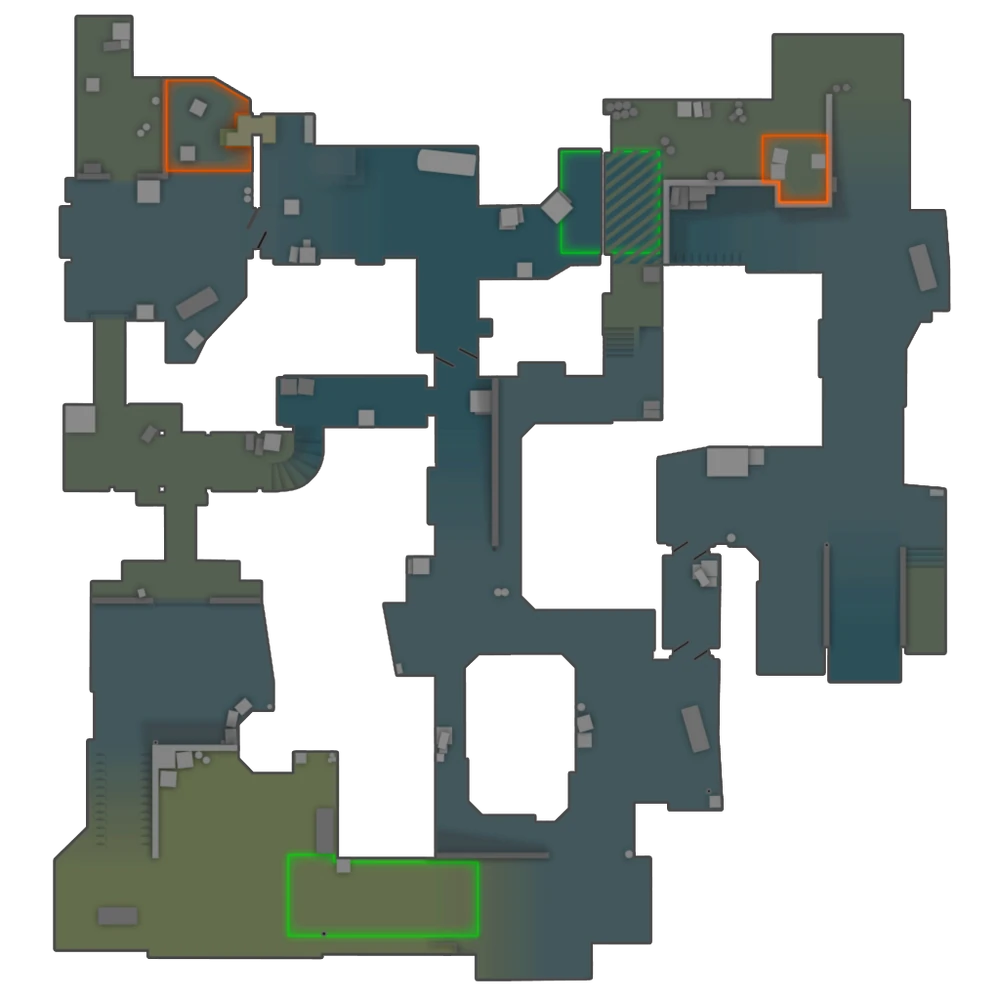
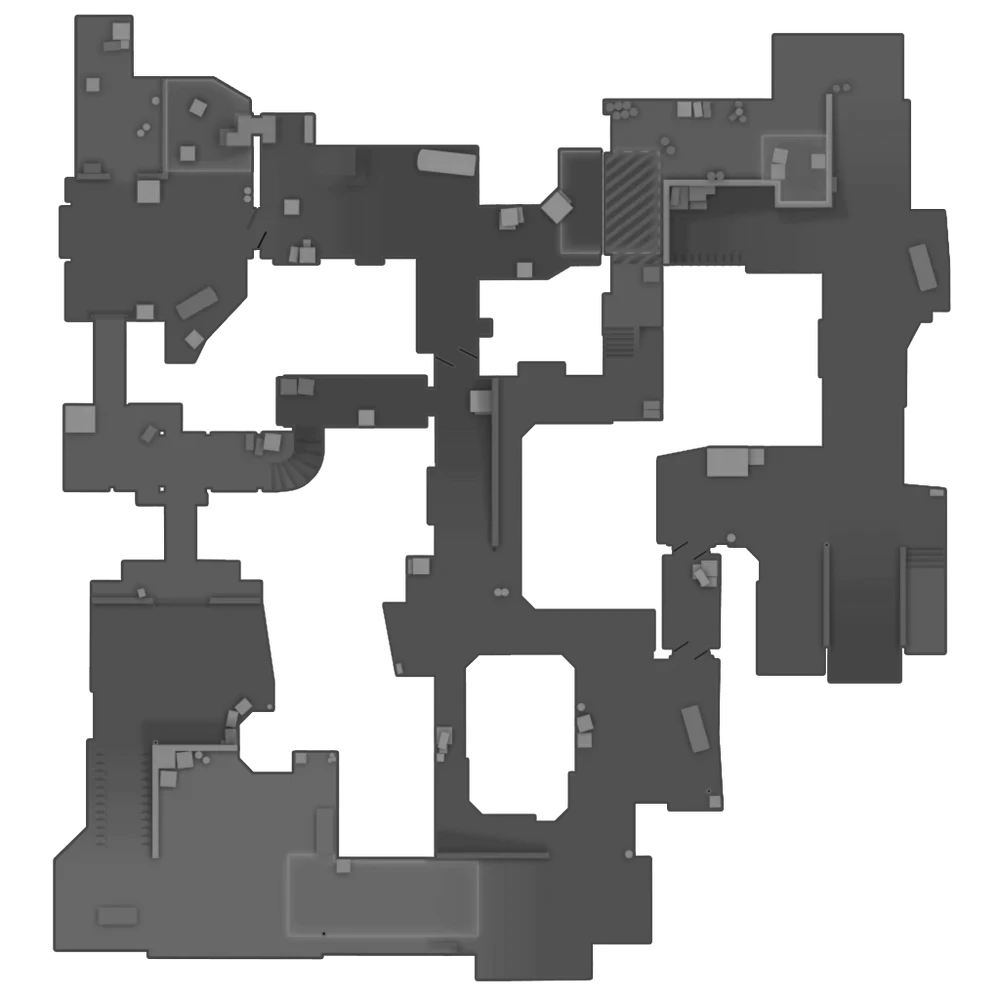
Carte : noms de zones retirés, carte en gris, cônes de vision, tracés courbes
Inspiration cs2.cam et stratbook.pro. Chaque joueur a un point regardé par
étape (bloc look) ; pastille orientée et cône dégradé à sa couleur.

Claude-Session: https://claude.ai/code/session_01MZjqa4ed32BAXY4Y2ZXGkq

diff --git a/src/map/render.js b/src/map/render.js
@@ -1,5 +1,7 @@
 // Rendu SVG d'une étape. Fonction pure (renvoie une chaîne), utilisable
 // dans le navigateur comme dans les tests et l'aperçu Node.
+// Inspiration visuelle : cs2.cam (carte en gris, seuls les joueurs en couleur, pastille
+// orientée) et stratbook.pro (tracés courbes, utilitaires discrets).
 import { BACKGROUND, VIEWBOX, ZONES } from './dust2.js';
 
 export const PLAYER_COLORS = {
@@ -24,43 +26,57 @@ const UTILITY_NAME = { smoke: 'Smoke', flash: 'Flash', molotov: 'Molotov', bomb:
 
 const C = {
   bg: '#0F1720',
-  chip: 'rgba(15,23,32,0.82)',
-  label: '#E8EEF4',
   onColor: '#0B1118',
   surface: '#17212B',
+  text: '#E8EEF4',
 };
 
 // Tailles en pixels de l'image (cadrage 600 de large, affiché ~360 px sur téléphone).
-const R_PLAYER = 21;
-const R_UTIL = 18;
-const STROKE = 6;
-const LABEL_SIZE = 19;
+const R_PLAYER = 19;
+const R_UTIL = 17;
+const STROKE = 5;
+const CONE_RADIUS = 150;
+const CONE_HALF_ANGLE = 32; // degrés, cône de 64°
 
 const esc = (s) =>
   String(s).replace(/[&<>"]/g, (c) => ({ '&': '&amp;', '<': '&lt;', '>': '&gt;', '"': '&quot;' })[c]);
 
 const zoneById = Object.fromEntries(ZONES.map((z) => [z.id, z]));
-const pts = (path) => path.map(([x, y]) => `${x},${y}`).join(' ');
+const r1 = (n) => Math.round(n * 10) / 10;
 
-function background(href) {
-  const { width, height } = BACKGROUND;
-  // Voile sombre léger pour faire ressortir tracés et étiquettes.
-  return `<rect x="0" y="0" width="${width}" height="${height}" fill="${C.bg}"/><image href="${esc(href)}" x="0" y="0" width="${width}" height="${height}" preserveAspectRatio="none"/><rect x="0" y="0" width="${width}" height="${height}" fill="${C.bg}" opacity="0.28"/>`;
+// Courbe lisse passant par tous les points (Catmull-Rom convertie en Bézier).
+export function smoothPath(points) {
+  if (points.length < 3) return `M${points.map(([x, y]) => `${x},${y}`).join(' L')}`;
+  let d = `M${points[0][0]},${points[0][1]}`;
+  for (let i = 0; i < points.length - 1; i++) {
+    const p0 = points[i - 1] ?? points[i];
+    const p1 = points[i];
+    const p2 = points[i + 1];
+    const p3 = points[i + 2] ?? p2;
+    const t = 0.18;
+    const c1 = [p1[0] + (p2[0] - p0[0]) * t, p1[1] + (p2[1] - p0[1]) * t];
+    const c2 = [p2[0] - (p3[0] - p1[0]) * t, p2[1] - (p3[1] - p1[1]) * t];
+    d += ` C${r1(c1[0])},${r1(c1[1])} ${r1(c2[0])},${r1(c2[1])} ${p2[0]},${p2[1]}`;
+  }
+  return d;
 }
 
-function labels() {
-  return ZONES.map(({ name, labelAt: [x, y] }) => {
-    const w = name.length * LABEL_SIZE * 0.56 + 14;
-    const h = LABEL_SIZE + 10;
-    return `<g><rect x="${x - w / 2}" y="${y - h / 2}" width="${w}" height="${h}" rx="${h / 2}" fill="${C.chip}"/><text x="${x}" y="${y}" text-anchor="middle" dominant-baseline="central" font-size="${LABEL_SIZE}" font-weight="600" fill="${C.label}">${esc(name)}</text></g>`;
-  }).join('');
+// Angle (radians) du joueur vers le point regardé.
+const angleTo = ([x, y], [tx, ty]) => Math.atan2(ty - y, tx - x);
+
+function cone(uid, role, [x, y], look) {
+  const a = angleTo([x, y], look);
+  const h = (CONE_HALF_ANGLE * Math.PI) / 180;
+  const p1 = [x + CONE_RADIUS * Math.cos(a - h), y + CONE_RADIUS * Math.sin(a - h)];
+  const p2 = [x + CONE_RADIUS * Math.cos(a + h), y + CONE_RADIUS * Math.sin(a + h)];
+  return `<path d="M${x},${y} L${r1(p1[0])},${r1(p1[1])} A${CONE_RADIUS},${CONE_RADIUS} 0 0 1 ${r1(p2[0])},${r1(p2[1])} Z" fill="url(#cone-${uid}-${role})"/>`;
 }
 
 function defs() {
   const markers = Object.entries(PLAYER_COLORS)
     .map(
       ([id, color]) =>
-        `<marker id="arrow-${id}" viewBox="0 0 10 10" refX="6" refY="5" markerWidth="3.2" markerHeight="3.2" orient="auto-start-reverse"><path d="M0,0 L10,5 L0,10 z" fill="${color}"/></marker>`,
+        `<marker id="arrow-${id}" viewBox="0 0 10 10" refX="6" refY="5" markerWidth="3.4" markerHeight="3.4" orient="auto-start-reverse"><path d="M0,0 L10,5 L0,10 z" fill="${color}"/></marker>`,
     )
     .join('');
   return `<defs>${markers}</defs>`;
@@ -79,13 +95,29 @@ export function renderStepSvg(strategy, stepN, opts = {}) {
   const step = strategy.steps.find((s) => s.n === stepN);
   if (!step) throw new Error(`Étape ${stepN} introuvable`);
   const m = step.map;
-  const dim = (role) => (focus && role !== focus ? ' opacity="0.3"' : '');
+  // Identifiant unique pour que plusieurs cartes puissent cohabiter dans une même page.
+  const uid = `s${stepN}-${focus ?? 'equipe'}`;
+  const dim = (role) => (focus && role !== focus ? ' opacity="0.28"' : '');
+  // Joueur sélectionné dessiné en dernier pour rester au-dessus.
+  const order = Object.keys(m.positions).sort((a, b) => (a === focus) - (b === focus));
+
+  // Les dégradés radiaux sont centrés sur chaque joueur : un dégradé par joueur et par étape.
+  const coneDefs = order
+    .map((role) => {
+      const [x, y] = m.positions[role];
+      return `<radialGradient id="cone-${uid}-${role}" gradientUnits="userSpaceOnUse" cx="${x}" cy="${y}" r="${CONE_RADIUS}"><stop offset="0" stop-color="${PLAYER_COLORS[role]}" stop-opacity="0.5"/><stop offset="1" stop-color="${PLAYER_COLORS[role]}" stop-opacity="0"/></radialGradient>`;
+    })
+    .join('');
+
+  const cones = order
+    .map((role) => `<g${dim(role)}>${cone(uid, role, m.positions[role], m.look[role])}</g>`)
+    .join('');
 
   const moves = m.moves
-    .map(
-      ({ role, path }) =>
-        `<g${dim(role)}><polyline points="${pts(path)}" fill="none" stroke="${C.bg}" stroke-width="${STROKE + 4}" stroke-linecap="round" stroke-linejoin="round" opacity="0.6"/><polyline points="${pts(path)}" fill="none" stroke="${PLAYER_COLORS[role]}" stroke-width="${STROKE}" stroke-linecap="round" stroke-linejoin="round" stroke-dasharray="${PLAYER_DASH[role]}" marker-end="url(#arrow-${role})"/></g>`,
-    )
+    .map(({ role, path }) => {
+      const d = smoothPath(path);
+      return `<g${dim(role)}><path d="${d}" fill="none" stroke="${C.bg}" stroke-width="${STROKE + 4}" stroke-linecap="round" opacity="0.7"/><path d="${d}" fill="none" stroke="${PLAYER_COLORS[role]}" stroke-width="${STROKE}" stroke-linecap="round" stroke-dasharray="${PLAYER_DASH[role]}" marker-end="url(#arrow-${role})"/></g>`;
+    })
     .join('');
 
   const utils = m.utilities
@@ -95,23 +127,26 @@ export function renderStepSvg(strategy, stepN, opts = {}) {
       const [x, y] = [z.anchor[0] + dx, z.anchor[1] + dy];
       const letter = UTILITY_LETTER[type];
       const r = letter.length > 1 ? R_UTIL + 3 : R_UTIL;
-      return `<g${dim(by)}><title>${esc(`${UTILITY_NAME[type]} (${by.toUpperCase()}) : ${z.name}`)}</title><circle cx="${x}" cy="${y}" r="${r}" fill="${C.surface}" stroke="${PLAYER_COLORS[by]}" stroke-width="5"/><text x="${x}" y="${y}" text-anchor="middle" dominant-baseline="central" font-size="${letter.length > 1 ? 15 : 19}" font-weight="800" fill="#E8EEF4">${letter}</text></g>`;
+      return `<g${dim(by)}><title>${esc(`${UTILITY_NAME[type]} (${by.toUpperCase()}) : ${z.name}`)}</title><circle cx="${x}" cy="${y}" r="${r}" fill="${C.surface}" stroke="${PLAYER_COLORS[by]}" stroke-width="4"/><text x="${x}" y="${y}" text-anchor="middle" dominant-baseline="central" font-size="${letter.length > 1 ? 14 : 18}" font-weight="800" fill="${C.text}">${letter}</text></g>`;
     })
     .join('');
 
-  // Joueur sélectionné dessiné en dernier pour rester au-dessus.
-  const order = Object.keys(m.positions).sort((a, b) => (a === focus) - (b === focus));
   const players = order
     .map((role) => {
       const [x, y] = m.positions[role];
+      const deg = (angleTo([x, y], m.look[role]) * 180) / Math.PI;
+      const color = PLAYER_COLORS[role];
+      // Pastille orientée : un petit bec du côté où le joueur regarde.
+      const beak = `<path d="M${x + R_PLAYER + 9},${y} L${x + R_PLAYER - 4},${y - 10} L${x + R_PLAYER - 4},${y + 10} Z" fill="${color}" stroke="${C.bg}" stroke-width="3" stroke-linejoin="round" transform="rotate(${r1(deg)} ${x} ${y})"/>`;
       const ring =
         role === focus
-          ? `<circle cx="${x}" cy="${y}" r="${R_PLAYER + 7}" fill="none" stroke="#E8EEF4" stroke-width="4"/>`
+          ? `<circle cx="${x}" cy="${y}" r="${R_PLAYER + 8}" fill="none" stroke="${C.text}" stroke-width="4"/>`
           : '';
-      return `<g class="player" data-role="${role}"${dim(role)}>${ring}<circle cx="${x}" cy="${y}" r="${R_PLAYER}" fill="${PLAYER_COLORS[role]}" stroke="${C.bg}" stroke-width="4"/><text x="${x}" y="${y}" text-anchor="middle" dominant-baseline="central" font-size="24" font-weight="800" fill="${C.onColor}">${role.slice(1)}</text></g>`;
+      return `<g class="player" data-role="${role}"${dim(role)}>${ring}${beak}<circle cx="${x}" cy="${y}" r="${R_PLAYER}" fill="${color}" stroke="${C.bg}" stroke-width="4"/><text x="${x}" y="${y}" text-anchor="middle" dominant-baseline="central" font-size="22" font-weight="800" fill="${C.onColor}">${role.slice(1)}</text></g>`;
     })
     .join('');
 
   const vb = `${VIEWBOX.x} ${VIEWBOX.y} ${VIEWBOX.width} ${VIEWBOX.height}`;
-  return `<svg xmlns="http://www.w3.org/2000/svg" xmlns:xlink="http://www.w3.org/1999/xlink" viewBox="${vb}" role="img" aria-label="Plan de Dust 2, étape ${stepN}" font-family="Inter, system-ui, sans-serif">${defs()}<g aria-hidden="true">${background(href)}${labels()}</g><g class="moves">${moves}</g><g class="utilities">${utils}</g><g class="players">${players}</g></svg>`;
+  const { width, height } = BACKGROUND;
+  return `<svg xmlns="http://www.w3.org/2000/svg" viewBox="${vb}" role="img" aria-label="Plan de Dust 2, étape ${stepN}" font-family="Inter, system-ui, sans-serif">${defs()}<defs>${coneDefs}</defs><g aria-hidden="true"><rect x="0" y="0" width="${width}" height="${height}" fill="${C.bg}"/><image href="${esc(href)}" x="0" y="0" width="${width}" height="${height}" preserveAspectRatio="none" opacity="0.75"/></g><g class="cones">${cones}</g><g class="moves">${moves}</g><g class="utilities">${utils}</g><g class="players">${players}</g></svg>`;
 }

diff --git a/src/map/dust2.js b/src/map/dust2.js
@@ -1,4 +1,5 @@
-// Plan de Dust 2 : image de vue d'ensemble fournie par Greg (public/maps/dust2.webp, 1000 x 1000).
+// Plan de Dust 2 : image de vue d'ensemble fournie par Greg, passée en niveaux de gris
+// (public/maps/dust2.webp, 1000 x 1000, original dans assets-src/).
 // Toutes les coordonnées sont en pixels de cette image.
 
 export const BACKGROUND = { href: 'maps/dust2.webp', width: 1000, height: 1000 };
@@ -8,20 +9,20 @@ export const BACKGROUND = { href: 'maps/dust2.webp', width: 1000, height: 1000 }
 export const VIEWBOX = { x: 360, y: 20, width: 600, height: 940 };
 
 // Zones nommées. anchor = point où poser un symbole d'utilitaire.
-// labelAt = position du nom, choisie pour ne pas être masquée par les joueurs.
+// Les noms ne sont pas affichés sur la carte (choix de Greg), ils servent aux données et aux tests.
 export const ZONES = [
-  { id: 'siteA', name: 'Site A', anchor: [790, 170], labelAt: [700, 70] },
-  { id: 'ct', name: 'CT', anchor: [640, 215], labelAt: [522, 238] },
-  { id: 'rampe', name: 'Rampe', anchor: [868, 228], labelAt: [845, 250] },
-  { id: 'car', name: 'Car', anchor: [920, 268], labelAt: [925, 225] },
-  { id: 'long', name: 'Long', anchor: [880, 400], labelAt: [930, 420] },
-  { id: 'pit', name: 'Pit', anchor: [868, 615], labelAt: [868, 640] },
-  { id: 'portesLong', name: 'Portes Long', anchor: [705, 650], labelAt: [770, 690] },
-  { id: 'short', name: 'Short', anchor: [632, 300], labelAt: [632, 430] },
-  { id: 'xbox', name: 'Xbox', anchor: [482, 400], labelAt: [455, 360] },
-  { id: 'mid', name: 'Mid', anchor: [462, 500], labelAt: [462, 520] },
-  { id: 'lower', name: 'Lower', anchor: [390, 400], labelAt: [395, 450] },
-  { id: 'topMid', name: 'Top Mid', anchor: [480, 610], labelAt: [560, 625] },
-  { id: 'suicide', name: 'Suicide', anchor: [450, 740], labelAt: [398, 740] },
-  { id: 'tSpawn', name: 'Spawn T', anchor: [400, 900], labelAt: [400, 925] },
+  { id: 'siteA', name: 'Site A', anchor: [790, 170] },
+  { id: 'ct', name: 'CT', anchor: [640, 215] },
+  { id: 'rampe', name: 'Rampe', anchor: [868, 228] },
+  { id: 'car', name: 'Car', anchor: [920, 268] },
+  { id: 'long', name: 'Long', anchor: [880, 400] },
+  { id: 'pit', name: 'Pit', anchor: [868, 615] },
+  { id: 'portesLong', name: 'Portes Long', anchor: [705, 650] },
+  { id: 'short', name: 'Short', anchor: [632, 300] },
+  { id: 'xbox', name: 'Xbox', anchor: [482, 400] },
+  { id: 'mid', name: 'Mid', anchor: [462, 500] },
+  { id: 'lower', name: 'Lower', anchor: [390, 400] },
+  { id: 'topMid', name: 'Top Mid', anchor: [480, 610] },
+  { id: 'suicide', name: 'Suicide', anchor: [450, 740] },
+  { id: 'tSpawn', name: 'Spawn T', anchor: [400, 900] },
 ];

diff --git a/tests/map.test.js b/tests/map.test.js
@@ -27,6 +27,16 @@ test("l'image de fond est présente", () => {
   assert.ok(existsSync(new URL('../public/maps/dust2.webp', import.meta.url)));
 });
 
+test('chaque joueur a un point regardé à chaque étape (cône de vision)', () => {
+  for (const s of data.steps)
+    for (const r of ROLES) assert.equal(s.map.look[r]?.length, 2, `étape ${s.n}, ${r}`);
+});
+
+test('la carte n\'affiche aucun nom de zone', () => {
+  const svg = renderStepSvg(data, 1);
+  for (const z of ZONES) assert.ok(!svg.includes(`>${z.name}<`), z.name);
+});
+
 test('chaque étape se dessine, en vue équipe et pour chaque rôle', () => {
   for (const s of data.steps)
     for (const focus of [null, ...ROLES]) {
